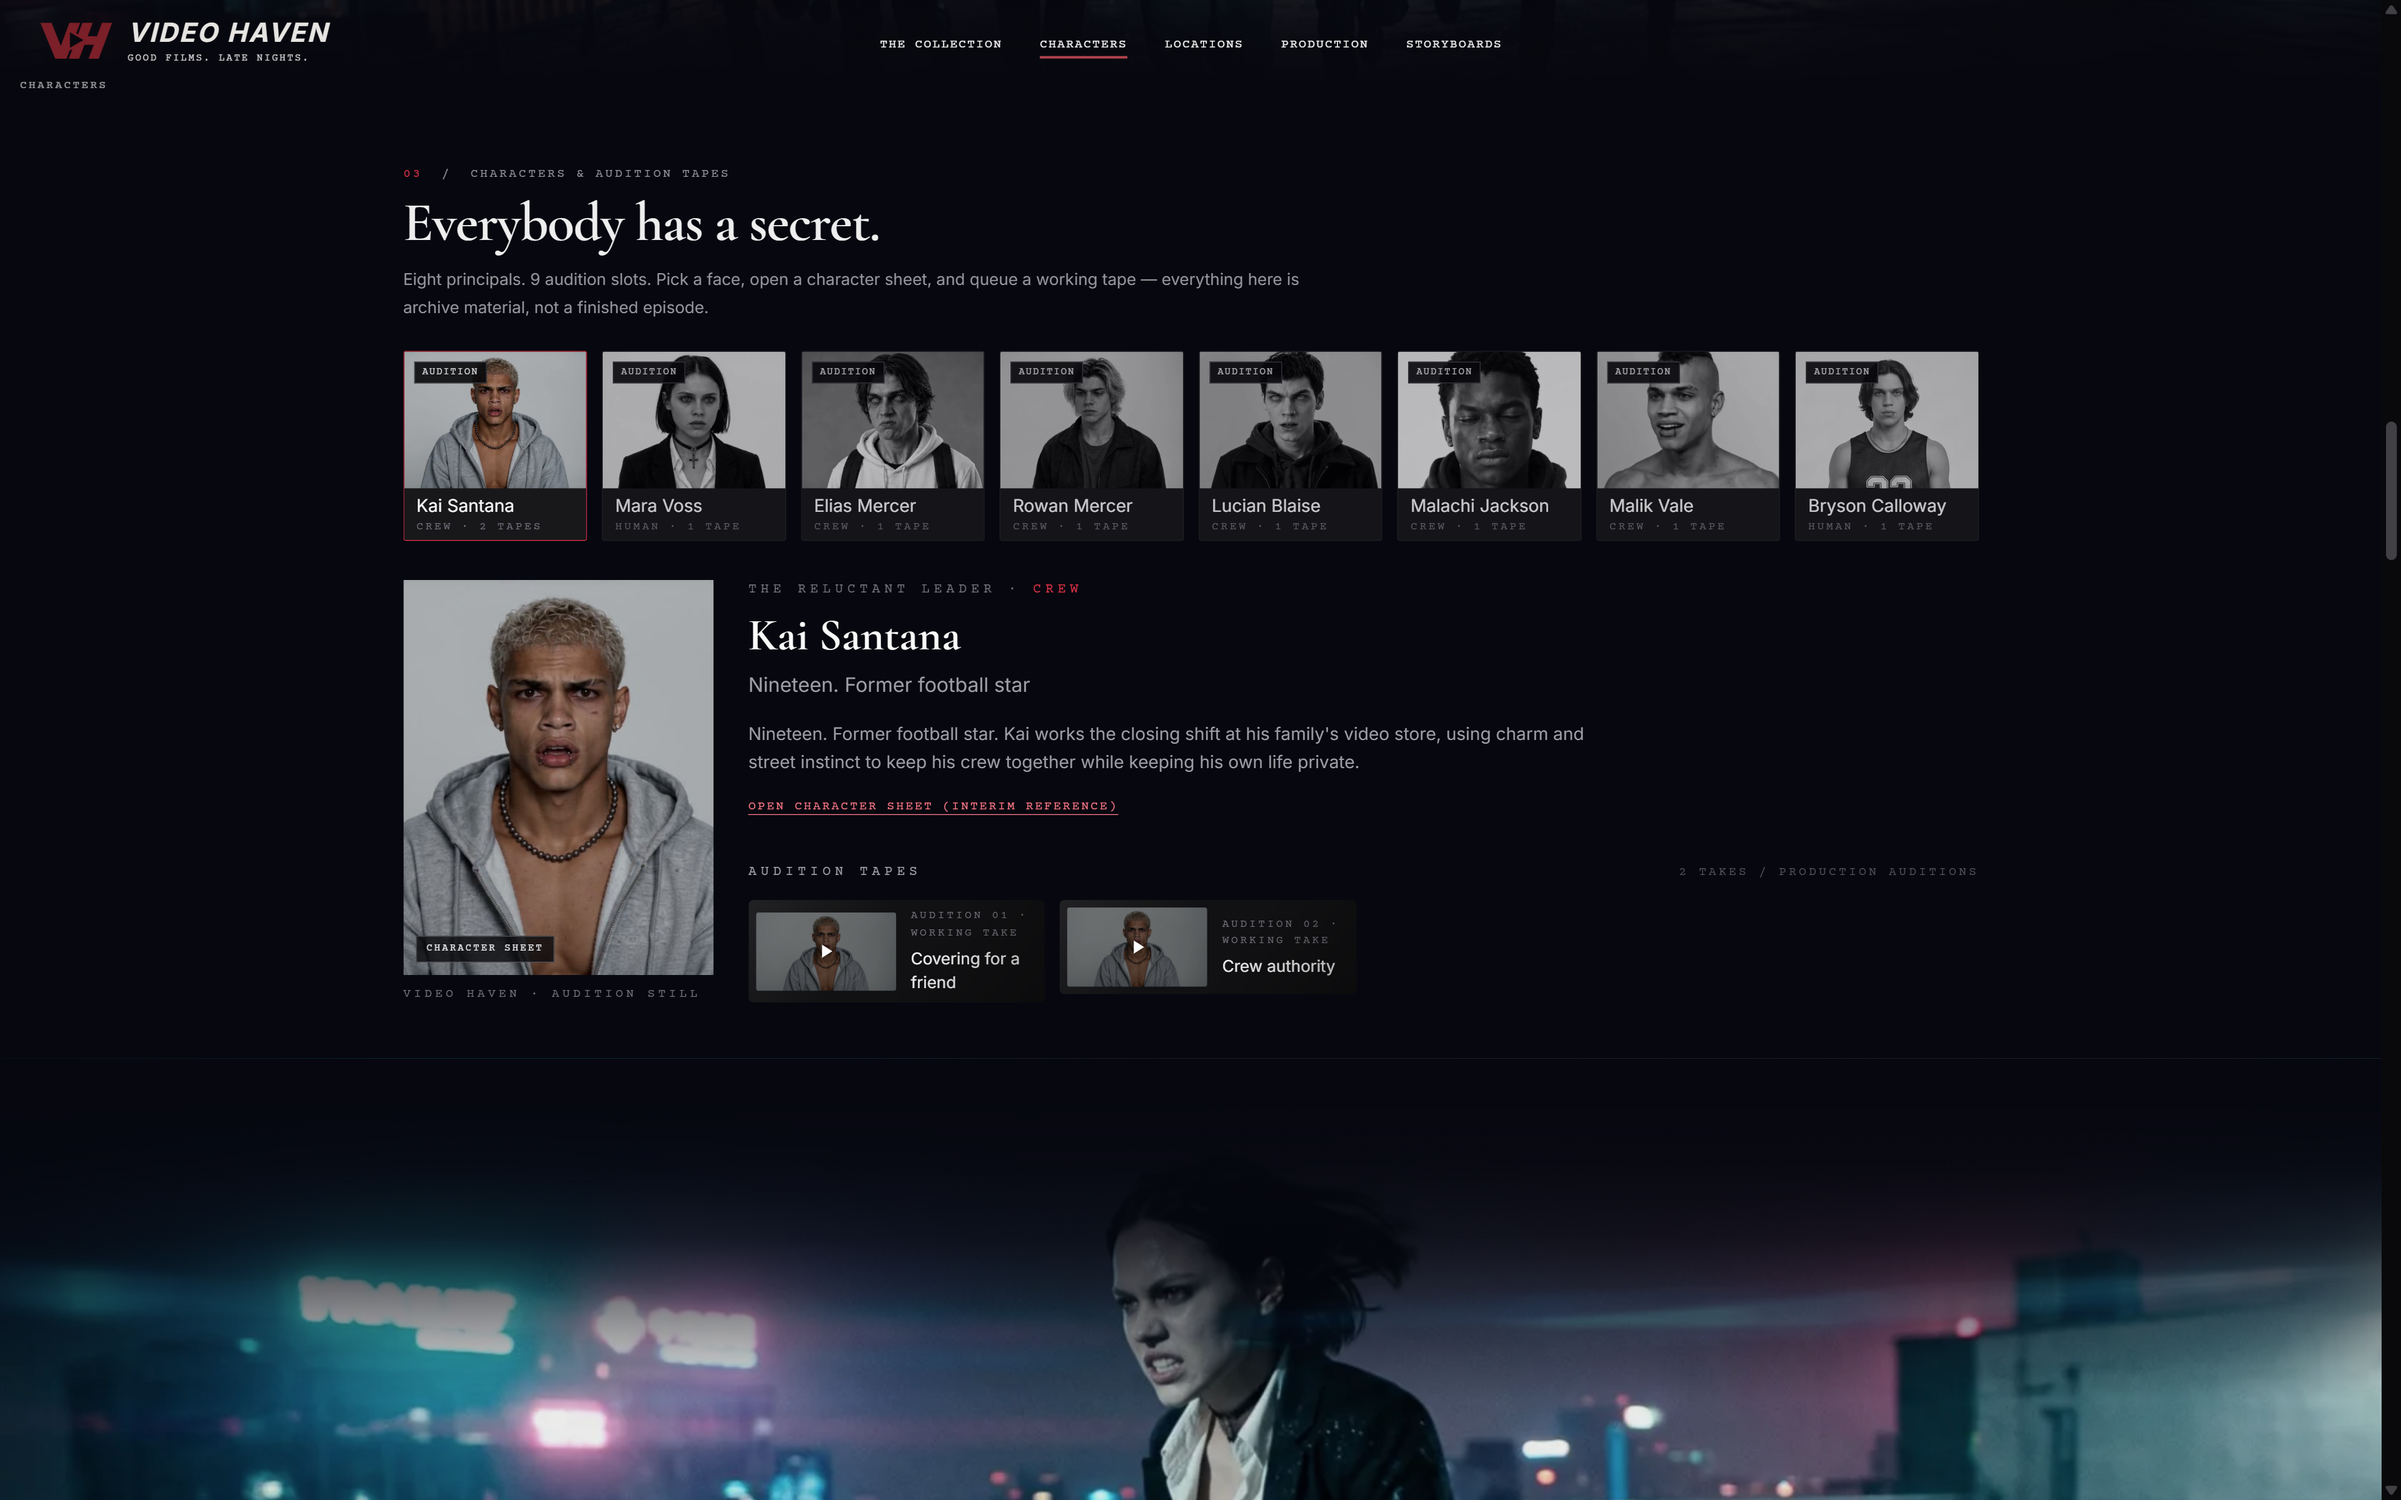
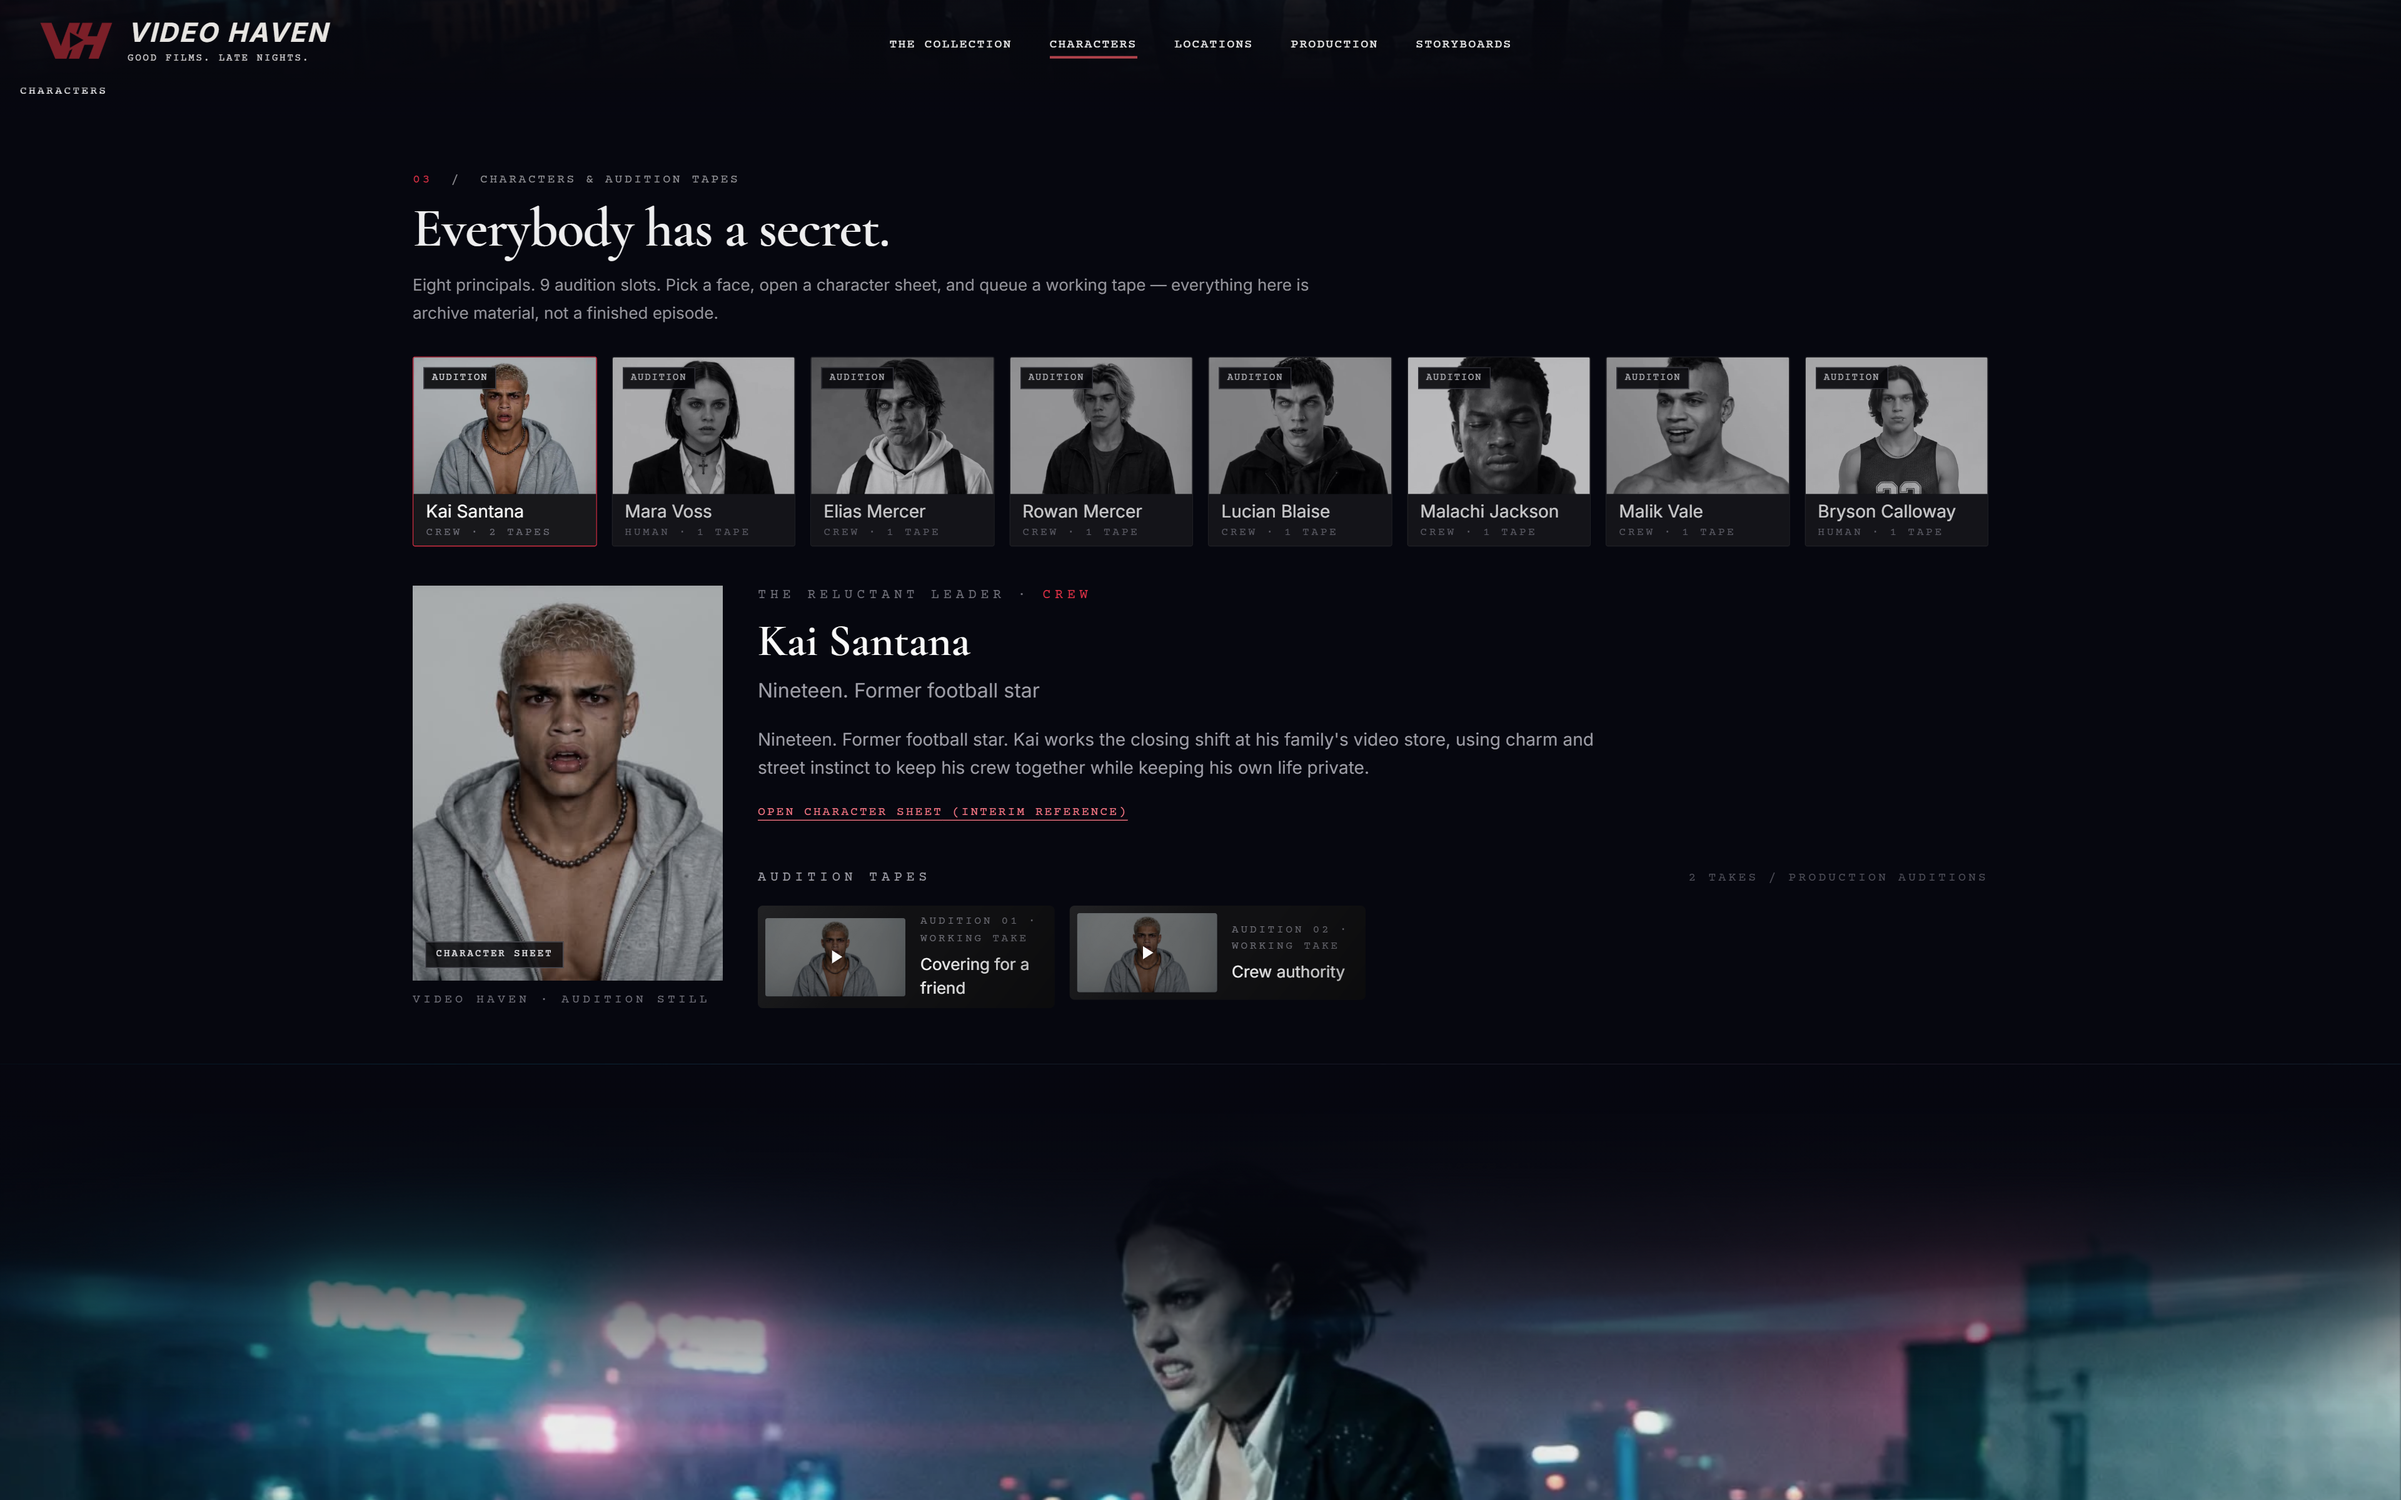
Refresh Video Haven captures and stabilize portfolio header

diff --git a/src/variations/editorial/EditorialPortfolio.svelte b/src/variations/editorial/EditorialPortfolio.svelte
@@ -71,7 +71,6 @@
         <div use:reveal class="page-width pt-24 lg:pt-32"><p data-reveal class="kicker">V1SU4 · Archives</p><h1 data-reveal class="display-title mt-5 text-[clamp(3.2rem,12vw,9rem)] text-zinc-50">Archives</h1><p data-reveal class="mt-6 max-w-2xl font-mono text-[14px] leading-relaxed text-zinc-400">{site.archives}</p><div data-reveal class="mt-8 flex flex-wrap gap-3">{#each site.links.filter(l=>['VFX REEL','IMDB'].includes(l.label)) as link (link.href)}<a class="button-outline" href={link.href} target="_blank" rel="noopener noreferrer">{link.label} ↗</a>{/each}</div></div>
       {:else}
         <div use:reveal class="page-width pt-24 lg:pt-32"><header class="relative isolate pb-32 sm:pb-40">
-          <img src="/images/about-profile-backdrop.png" alt="" aria-hidden="true" class="pointer-events-none absolute inset-0 -z-10 h-full w-full object-cover object-[center_42%] opacity-50 grayscale" style="mask-image: linear-gradient(to bottom, #000 60%, transparent 100%);" />
           <p data-reveal class="kicker">V1SU4 · About</p><h1 data-reveal class="display-title mt-5 text-[clamp(3.2rem,12vw,9rem)] text-zinc-50">Gordo</h1><div class="mt-5 max-w-2xl space-y-5 font-mono text-[14px] leading-relaxed text-zinc-400 sm:text-[15px]">{#each site.about as paragraph (paragraph)}<p data-reveal>{paragraph}</p>{/each}</div></header>
           <div class="mt-10 grid gap-8 sm:grid-cols-3">{#each [{label:'Role',value:site.role},{label:'Focus',value:site.focus},{label:'Base',value:site.base}] as fact (fact.label)}<div class="border-t border-white/10 pt-4"><h2 class="label text-zinc-500">{fact.label}</h2><p class="mt-3 font-narrow text-[22px] text-zinc-100">{fact.value}</p></div>{/each}</div>
           <h2 class="display-title mt-16 text-4xl text-zinc-100">Capabilities</h2><div class="mt-8 grid gap-8 sm:grid-cols-2 lg:grid-cols-4">{#each skillGroups as group (group.title)}<div class="border-t border-white/10 pt-4"><h3 class="label text-zinc-500">{group.title}</h3><ul class="mt-4 space-y-2">{#each group.items as item (item)}<li class="font-mono text-[13px] text-zinc-300">{item}</li>{/each}</ul></div>{/each}</div>

diff --git a/src/data/projects.ts b/src/data/projects.ts
@@ -47,15 +47,15 @@ export const projects: Project[] = [
     year: "2026",
     stack: ["React", "TypeScript", "Vite", "GSAP", "Three.js"],
     stackGroups: [{ title: "Front end", items: ["React", "TypeScript", "Vite", "GSAP", "Three.js"] }, { title: "Back end", items: ["Static site · no server backend"] }, { title: "Production tasks", items: ["Series breakdown", "Interactive DVD collection", "Character auditions", "Storyboards and working previews"] }],
-    cover: "/images/captures/2026-10-19/video-haven-home.webp",
+    cover: "/images/captures/2026-10-19/video-haven-home-v2.webp",
     imageFit: "contain",
     link: "https://www.videohaven.stream/",
     what: "An interactive home for an original series, bringing its story, characters, locations, and production material together. I’m developing the creative presentation and building the experience, with Blood Rush as the first featured series.",
     flow: [{ label: "SERIES", sub: "Explore the story and visual direction" }, { label: "COLLECTION", sub: "Browse working previews and development tests" }, { label: "WORLD", sub: "Meet the characters and explore locations" }, { label: "PRODUCTION", sub: "Follow storyboards and production development" }],
     media: [
-      "/images/captures/2026-10-19/video-haven-dvd-shelf.webp",
-      "/images/captures/2026-10-19/video-haven-foil-detail.webp",
-      "/images/captures/2026-10-19/video-haven-characters.webp",
+      "/images/captures/2026-10-19/video-haven-dvd-shelf-v2.webp",
+      "/images/captures/2026-10-19/video-haven-foil-detail-v2.webp",
+      "/images/captures/2026-10-19/video-haven-characters-v2.webp",
     ],
   },
   {

diff --git a/src/variations/editorial/editorial.css b/src/variations/editorial/editorial.css
@@ -28,6 +28,7 @@
 
   html {
     -webkit-text-size-adjust: 100%;
+    scrollbar-gutter: stable;
     scrollbar-color: #303038 #09090b;
   }
 
